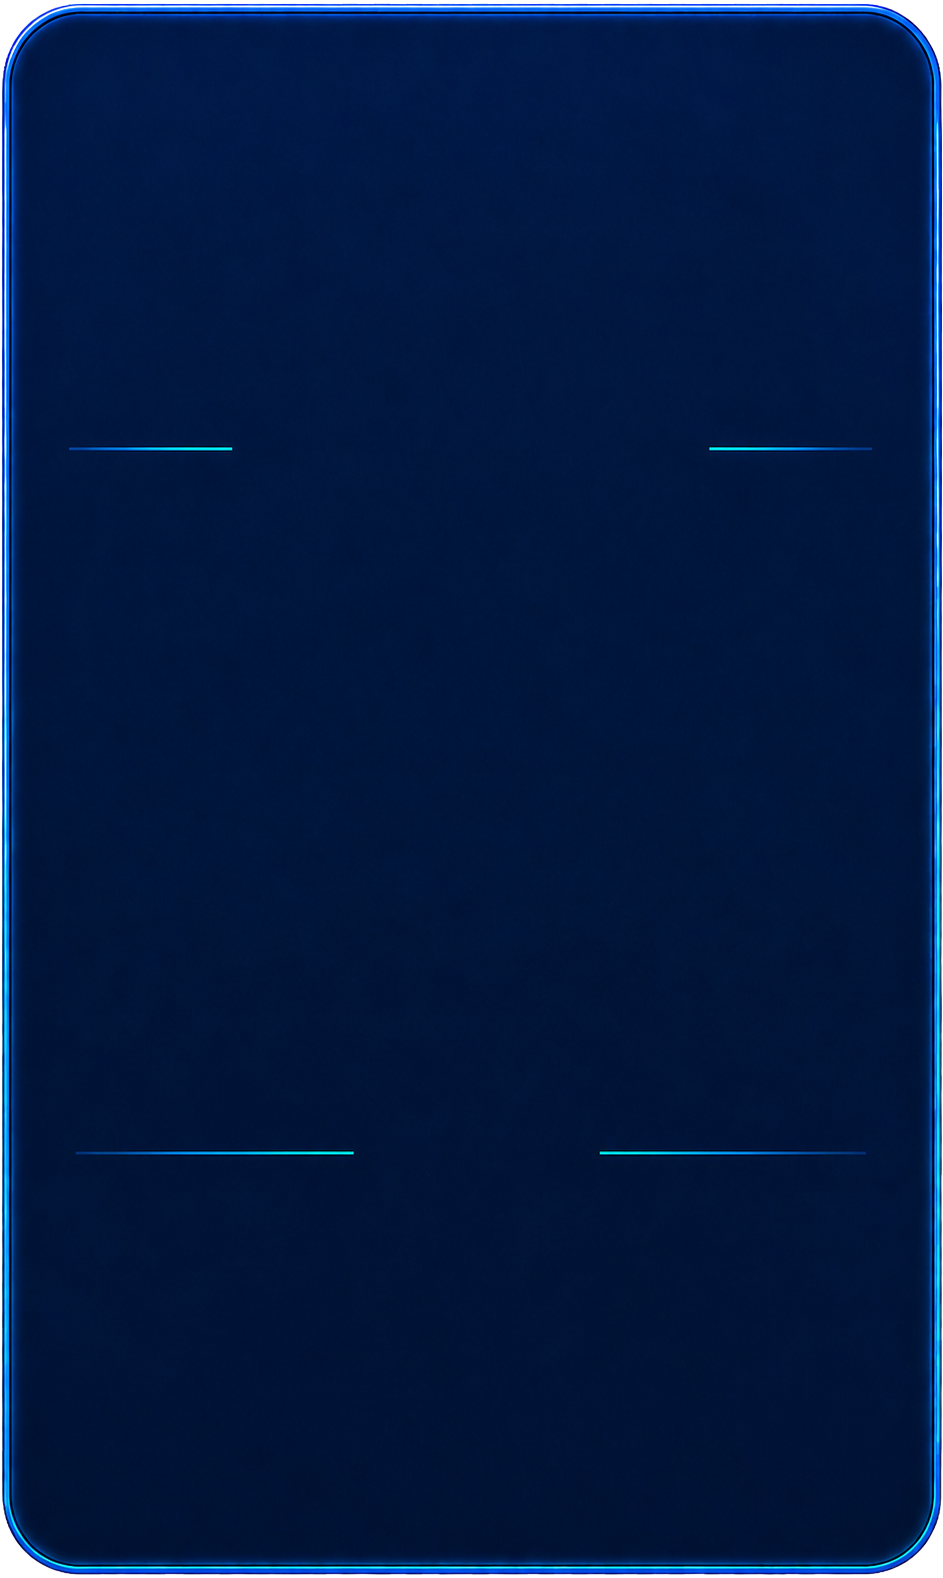
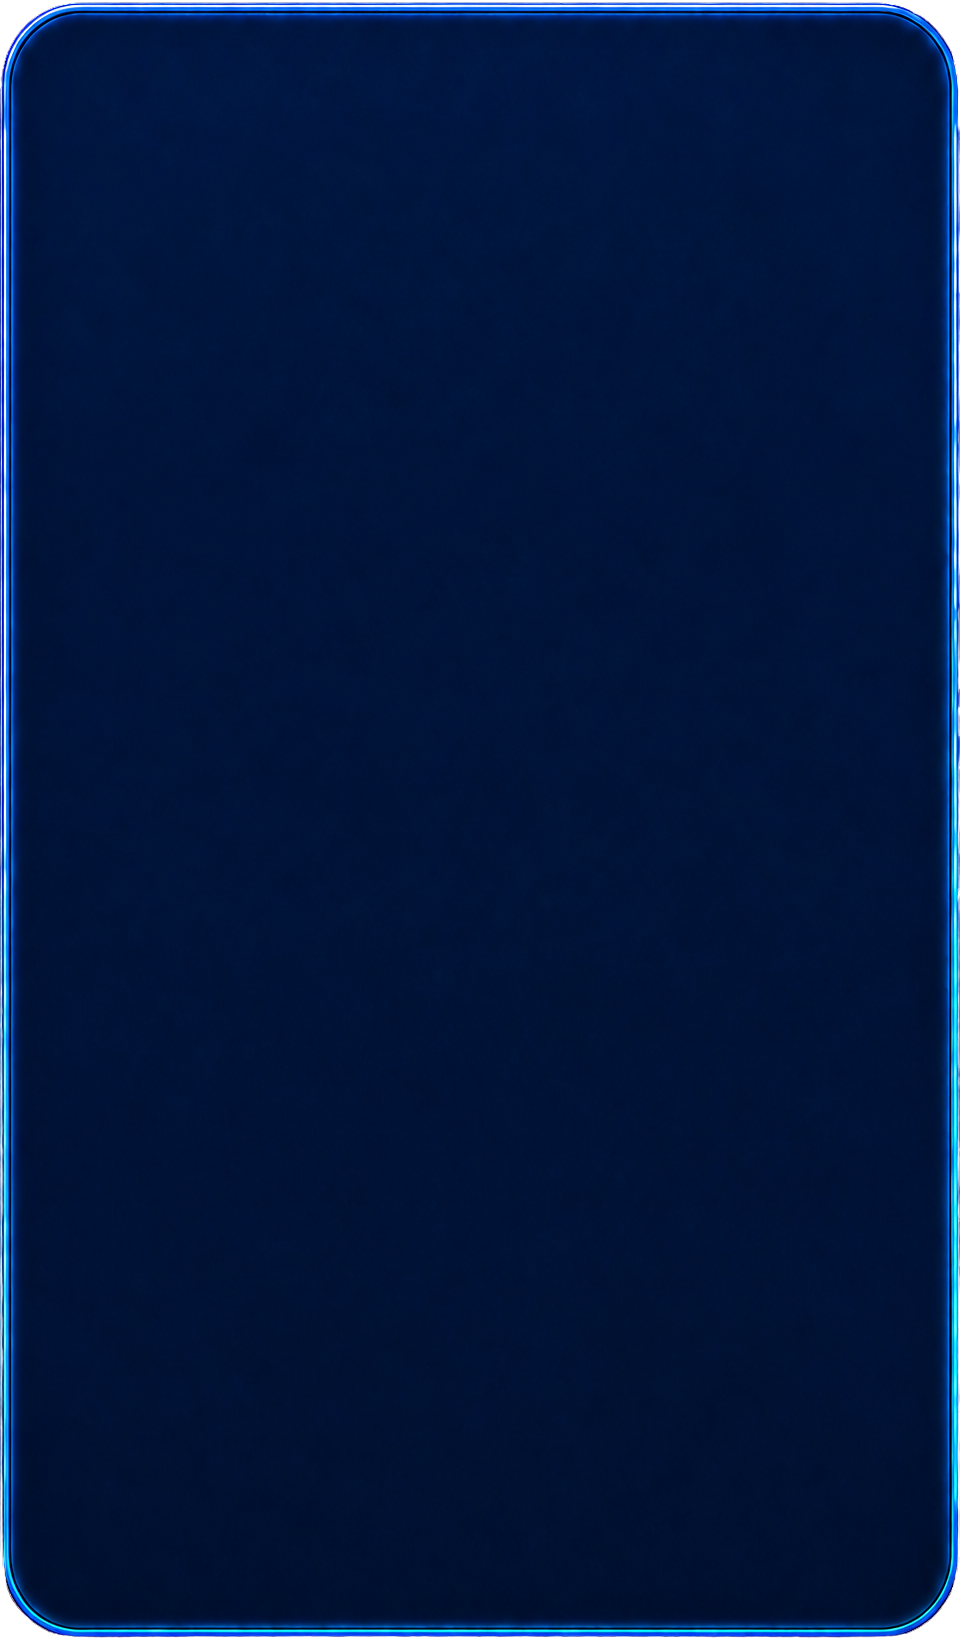
update code

diff --git a/web/src/pages/games/pen/PenCatchModal.tsx b/web/src/pages/games/pen/PenCatchModal.tsx
@@ -1,0 +1,164 @@
+import { useState, type CSSProperties } from 'react';
+import { useTranslation } from 'react-i18next';
+import { formatVnd, toast } from '@lib';
+import type { PenSide } from '@app-types';
+import { penAssets, penCatchAssets } from './penAssets';
+
+const DIRECTIONS: PenSide[] = ['left', 'right'];
+
+interface PenCatchModalProps {
+  ken: number;
+  betAmount: number;
+  submitting?: boolean;
+  onTopUp: () => void;
+  onConfirm: (side: PenSide) => void;
+  onClose: () => void;
+}
+
+const stretchBg: CSSProperties = { backgroundSize: '100% 100%' };
+
+export function PenCatchModal({
+  ken,
+  betAmount,
+  submitting,
+  onTopUp,
+  onConfirm,
+  onClose,
+}: PenCatchModalProps) {
+  const { t } = useTranslation();
+  const [direction, setDirection] = useState<PenSide | null>(null);
+
+  const handleConfirm = () => {
+    if (!direction) {
+      toast.error(t('penGame.errChooseCatchDirection'));
+      return;
+    }
+    onConfirm(direction);
+  };
+
+  return (
+    <div
+      onClick={onClose}
+      className="absolute inset-0 z-40 flex items-center justify-center bg-black/55 px-4"
+    >
+      <div
+        onClick={(e) => e.stopPropagation()}
+        style={{ ...stretchBg, backgroundImage: `url(${penCatchAssets.bg})` }}
+        className="relative aspect-[943/1250] w-full max-w-[380px] bg-no-repeat"
+      >
+        <div className="absolute inset-0 flex flex-col items-center px-[8%] pt-[4%] pb-[4%] text-white">
+          <div className="flex items-center justify-center gap-2">
+            <img src={penCatchAssets.gloveEffect} alt="" className="h-14 w-auto object-contain" />
+            <span className="text-3xl font-extrabold italic tracking-wider drop-shadow">
+              {t('penGame.catchTitle')}
+            </span>
+          </div>
+
+          <button
+            type="button"
+            aria-label={t('penGame.close')}
+            onClick={onClose}
+            style={{ ...stretchBg, backgroundImage: `url(${penCatchAssets.closeBtn})` }}
+            className="absolute right-[5%] top-[3%] flex h-9 w-9 items-center justify-center bg-no-repeat transition active:scale-95"
+          >
+            <img src={penCatchAssets.closeIcon} alt="" className="h-4 w-4 object-contain" />
+          </button>
+
+          <div className="mt-[3%] flex items-center gap-2 rounded-xl bg-black/30 px-3 py-1.5">
+            <img src={penAssets.kenIcon} alt="KEN" className="h-6 w-6 shrink-0" />
+            <span className="min-w-[68px] text-center text-xl font-bold">{formatVnd(ken)}</span>
+            <button
+              type="button"
+              aria-label={t('penGame.topUp')}
+              onClick={onTopUp}
+              style={{ ...stretchBg, backgroundImage: `url(${penAssets.plusBtn})` }}
+              className="flex h-8 w-8 items-center justify-center bg-no-repeat transition active:scale-95"
+            >
+              <img src={penAssets.plusIcon} alt="" className="h-3.5 w-3.5 object-contain" />
+            </button>
+          </div>
+
+          <p className="mt-[3%] text-base font-semibold text-white/90">
+            {t('penGame.chooseCatchDirection')}
+          </p>
+
+          <div className="mt-[3%] -mx-[5%] grid w-[110%] grid-cols-2 gap-2">
+            {DIRECTIONS.map((dir) => {
+              const active = direction === dir;
+              const skin = active ? penCatchAssets.dir.selected : penCatchAssets.dir.unselected;
+              const arrow = dir === 'left' ? skin.arrowLeft : skin.arrowRight;
+              const glove = dir === 'left' ? penCatchAssets.gloveLeft : penCatchAssets.gloveRight;
+              const label = dir === 'left' ? t('penGame.directionLeft') : t('penGame.directionRight');
+              return (
+                <button
+                  key={dir}
+                  type="button"
+                  aria-pressed={active}
+                  onClick={() => setDirection(dir)}
+                  style={{ ...stretchBg, backgroundImage: `url(${skin.bg})` }}
+                  className="relative aspect-[1082/1220] w-full bg-no-repeat transition active:scale-95"
+                >
+                  <img
+                    src={arrow}
+                    alt=""
+                    className={`pointer-events-none absolute top-[46%] w-[56%] -translate-y-1/2 object-contain ${
+                      dir === 'left' ? 'left-[2%]' : 'right-[2%]'
+                    }`}
+                  />
+                  <img
+                    src={glove}
+                    alt=""
+                    className={`pointer-events-none absolute top-[48%] w-[40%] -translate-y-1/2 object-contain ${
+                      dir === 'left' ? 'right-[4%]' : 'left-[4%]'
+                    }`}
+                  />
+                  {active && (
+                    <img
+                      src={penCatchAssets.dir.selected.mark}
+                      alt=""
+                      className="pointer-events-none absolute bottom-[4%] left-1/2 w-[22%] -translate-x-1/2 translate-y-1/2 object-contain"
+                    />
+                  )}
+                  <span
+                    style={{ ...stretchBg, backgroundImage: `url(${skin.tab})` }}
+                    className="absolute left-1/2 top-0 flex aspect-[1063/360] w-[50%] -translate-x-1/2 items-center justify-center bg-no-repeat text-sm font-extrabold tracking-wider text-white drop-shadow"
+                  >
+                    {label}
+                  </span>
+                </button>
+              );
+            })}
+          </div>
+
+          <div className="mt-auto flex flex-col items-center gap-1 pt-[4%]">
+            <span className="text-base font-semibold text-white/90">{t('penGame.catchBet')}</span>
+            <span className="flex items-center gap-2">
+              <img src={penAssets.kenIcon} alt="KEN" className="h-6 w-6 shrink-0" />
+              <span className="text-2xl font-bold text-white">{formatVnd(betAmount)}</span>
+            </span>
+          </div>
+
+          <div className="mt-[3%] flex w-full items-center gap-3">
+            <button
+              type="button"
+              onClick={onClose}
+              style={{ ...stretchBg, backgroundImage: `url(${penCatchAssets.cancelBtn})` }}
+              className="flex h-12 flex-[2] items-center justify-center bg-no-repeat text-lg font-extrabold tracking-wide text-[#ff5b5b] drop-shadow transition active:scale-95"
+            >
+              {t('penGame.cancel')}
+            </button>
+            <button
+              type="button"
+              onClick={handleConfirm}
+              disabled={submitting}
+              style={{ ...stretchBg, backgroundImage: `url(${penCatchAssets.confirmBtn})` }}
+              className="flex h-12 flex-[3] items-center justify-center bg-no-repeat text-lg font-extrabold tracking-wide drop-shadow transition active:scale-95 disabled:opacity-60"
+            >
+              {t('penGame.confirm')}
+            </button>
+          </div>
+        </div>
+      </div>
+    </div>
+  );
+}

diff --git a/web/src/pages/games/pen/PenGamePage.tsx b/web/src/pages/games/pen/PenGamePage.tsx
@@ -1,16 +1,17 @@
-import { useEffect, useState } from 'react';
+import { useCallback, useEffect, useState } from 'react';
 import { useTranslation } from 'react-i18next';
 import { useNavigate } from 'react-router-dom';
 import { ROUTES } from '@constants';
 import { FullScreenOverlay } from '@components';
 import { formatKen, toApiError, toast } from '@lib';
 import { PenService } from '@services';
-import type { PenSide } from '@app-types';
+import type { PenSide, PenShotView } from '@app-types';
 import { useAuthStore } from '@/store/authStore';
 import { usePenStore } from '@/store/penStore';
 import { PenButton } from './PenButton';
 import { PenShotList } from './PenShotList';
 import { PenShootModal } from './PenShootModal';
+import { PenCatchModal } from './PenCatchModal';
 import { penAssets } from './penAssets';
 import { PEN_START_KEN } from './penMock';
 
@@ -34,10 +35,14 @@ export function PenGamePage() {
   const [kicking, setKicking] = useState(false);
   const [shootOpen, setShootOpen] = useState(false);
   const [submitting, setSubmitting] = useState(false);
+  const [catchShot, setCatchShot] = useState<PenShotView | null>(null);
+  const [catching, setCatching] = useState(false);
 
   useEffect(() => {
     void loadShots();
   }, [loadShots]);
+
+  const closeCatch = useCallback(() => setCatchShot(null), []);
 
   const playKick = () => {
     setKickId((n) => n + 1);
@@ -58,6 +63,24 @@ export function PenGamePage() {
       toast.error(toApiError(e).message);
     } finally {
       setSubmitting(false);
+    }
+  };
+
+  const handleCatch = async (side: PenSide) => {
+    if (catching || catchShot == null) return;
+    setCatching(true);
+    try {
+      const res = await PenService.catchShot(catchShot.id, { side });
+      if (user) setUser({ ...user, ken: res.kenBalance });
+      setCatchShot(null);
+      playKick();
+      if (res.win) toast.success(t('penGame.catchWin', { payout: formatKen(res.payout) }));
+      else toast.error(t('penGame.catchLose'));
+      void loadShots();
+    } catch (e) {
+      toast.error(toApiError(e).message);
+    } finally {
+      setCatching(false);
     }
   };
 
@@ -154,9 +177,7 @@ export function PenGamePage() {
             shots={shots}
             loading={loadingShots}
             page={1}
-            onSelect={(shot) =>
-              toast.success(t('penGame.selected', { code: shot.shooter?.username ?? '' }))
-            }
+            onSelect={(shot) => setCatchShot(shot)}
             className="relative z-10 mx-4 mb-1 min-h-0 flex-1"
           />
 
@@ -185,6 +206,17 @@ export function PenGamePage() {
               onTopUp={() => navigate(ROUTES.kenBuy)}
               onConfirm={handleCreateShot}
               onClose={() => setShootOpen(false)}
+            />
+          )}
+
+          {catchShot != null && (
+            <PenCatchModal
+              ken={ken}
+              betAmount={catchShot.betAmount}
+              submitting={catching}
+              onTopUp={() => navigate(ROUTES.kenBuy)}
+              onConfirm={handleCatch}
+              onClose={closeCatch}
             />
           )}
         </div>

diff --git a/web/src/pages/games/pen/penAssets.ts b/web/src/pages/games/pen/penAssets.ts
@@ -32,6 +32,17 @@ import dirUnselTabUrl from '@/assets/games/pen/shoot-modal/unselected/label-tab.
 import dirUnselArrowLeftUrl from '@/assets/games/pen/shoot-modal/unselected/arrow-left.png';
 import dirUnselArrowRightUrl from '@/assets/games/pen/shoot-modal/unselected/arrow-right.png';
 import dirUnselMarkUrl from '@/assets/games/pen/shoot-modal/unselected/circle.png';
+import catchGloveLeftUrl from '@/assets/games/pen/catch-modal/glove-left.png';
+import catchGloveRightUrl from '@/assets/games/pen/catch-modal/glove-right.png';
+import catchGloveEffectUrl from '@/assets/games/pen/catch-modal/glove-effect.png';
+import catchSelBgUrl from '@/assets/games/pen/catch-modal/selected/background-empty.png';
+import catchSelTabUrl from '@/assets/games/pen/catch-modal/selected/label-tab.png';
+import catchSelArrowLeftUrl from '@/assets/games/pen/catch-modal/selected/arrow-left.png';
+import catchSelArrowRightUrl from '@/assets/games/pen/catch-modal/selected/arrow-right.png';
+import catchSelMarkUrl from '@/assets/games/pen/catch-modal/selected/circle-check.png';
+import catchUnselTabUrl from '@/assets/games/pen/catch-modal/unselected/label-tab.png';
+import catchUnselArrowLeftUrl from '@/assets/games/pen/catch-modal/unselected/arrow-left.png';
+import catchUnselArrowRightUrl from '@/assets/games/pen/catch-modal/unselected/arrow-right.png';
 
 export const penAssets = {
   scene: sceneUrl,
@@ -75,6 +86,32 @@ export const penShootAssets = {
       arrowLeft: dirUnselArrowLeftUrl,
       arrowRight: dirUnselArrowRightUrl,
       mark: dirUnselMarkUrl,
+    },
+  },
+};
+
+export const penCatchAssets = {
+  bg: shootBgUrl,
+  gloveLeft: catchGloveLeftUrl,
+  gloveRight: catchGloveRightUrl,
+  gloveEffect: catchGloveEffectUrl,
+  confirmBtn: confirmBtnUrl,
+  cancelBtn: cancelBtnUrl,
+  closeBtn: closeBtnUrl,
+  closeIcon: closeIconUrl,
+  dir: {
+    selected: {
+      bg: catchSelBgUrl,
+      tab: catchSelTabUrl,
+      arrowLeft: catchSelArrowLeftUrl,
+      arrowRight: catchSelArrowRightUrl,
+      mark: catchSelMarkUrl,
+    },
+    unselected: {
+      bg: dirUnselBgUrl,
+      tab: catchUnselTabUrl,
+      arrowLeft: catchUnselArrowLeftUrl,
+      arrowRight: catchUnselArrowRightUrl,
     },
   },
 };

diff --git a/web/src/pages/games/pen/PenShootModal.tsx b/web/src/pages/games/pen/PenShootModal.tsx
@@ -58,7 +58,7 @@ export function PenShootModal({
       <div
         onClick={(e) => e.stopPropagation()}
         style={{ ...stretchBg, backgroundImage: `url(${penShootAssets.bg})` }}
-        className="relative aspect-[943/1578] w-full max-w-[380px] bg-no-repeat"
+        className="relative aspect-[960/1639] w-full max-w-[380px] bg-no-repeat"
       >
         <div className="absolute inset-0 flex flex-col items-center px-[8%] pt-[4%] pb-[4%] text-white">
           <div className="flex items-center justify-center gap-2">
